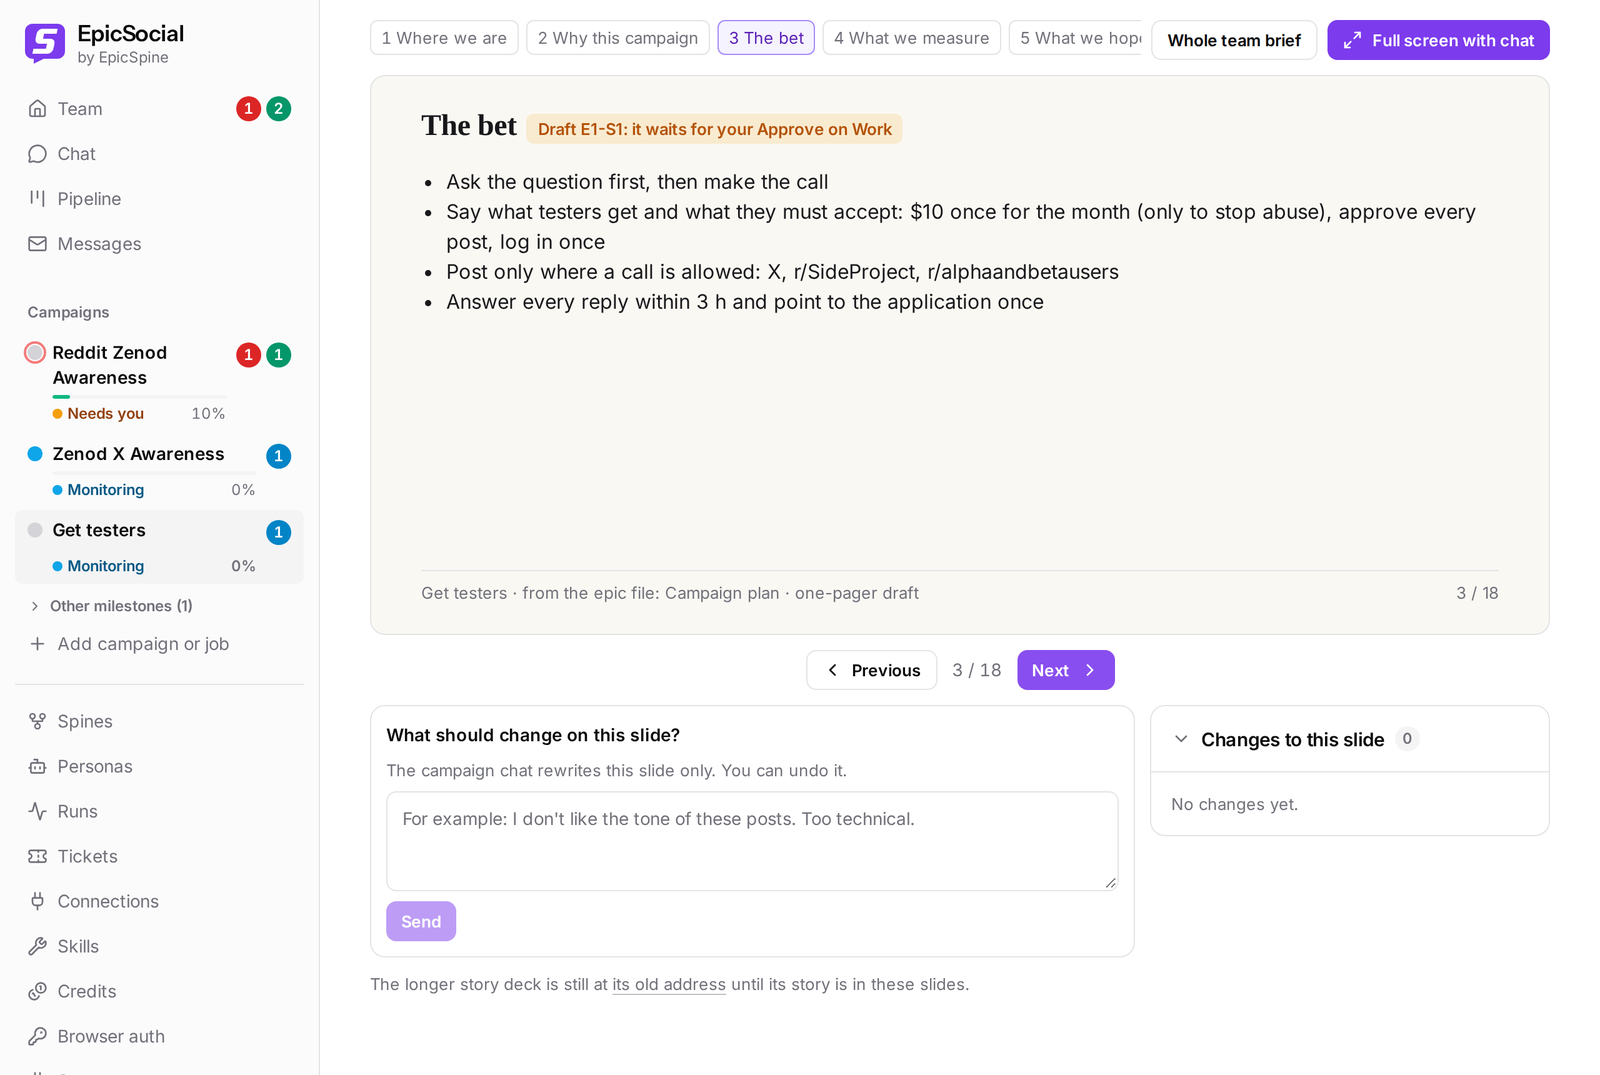
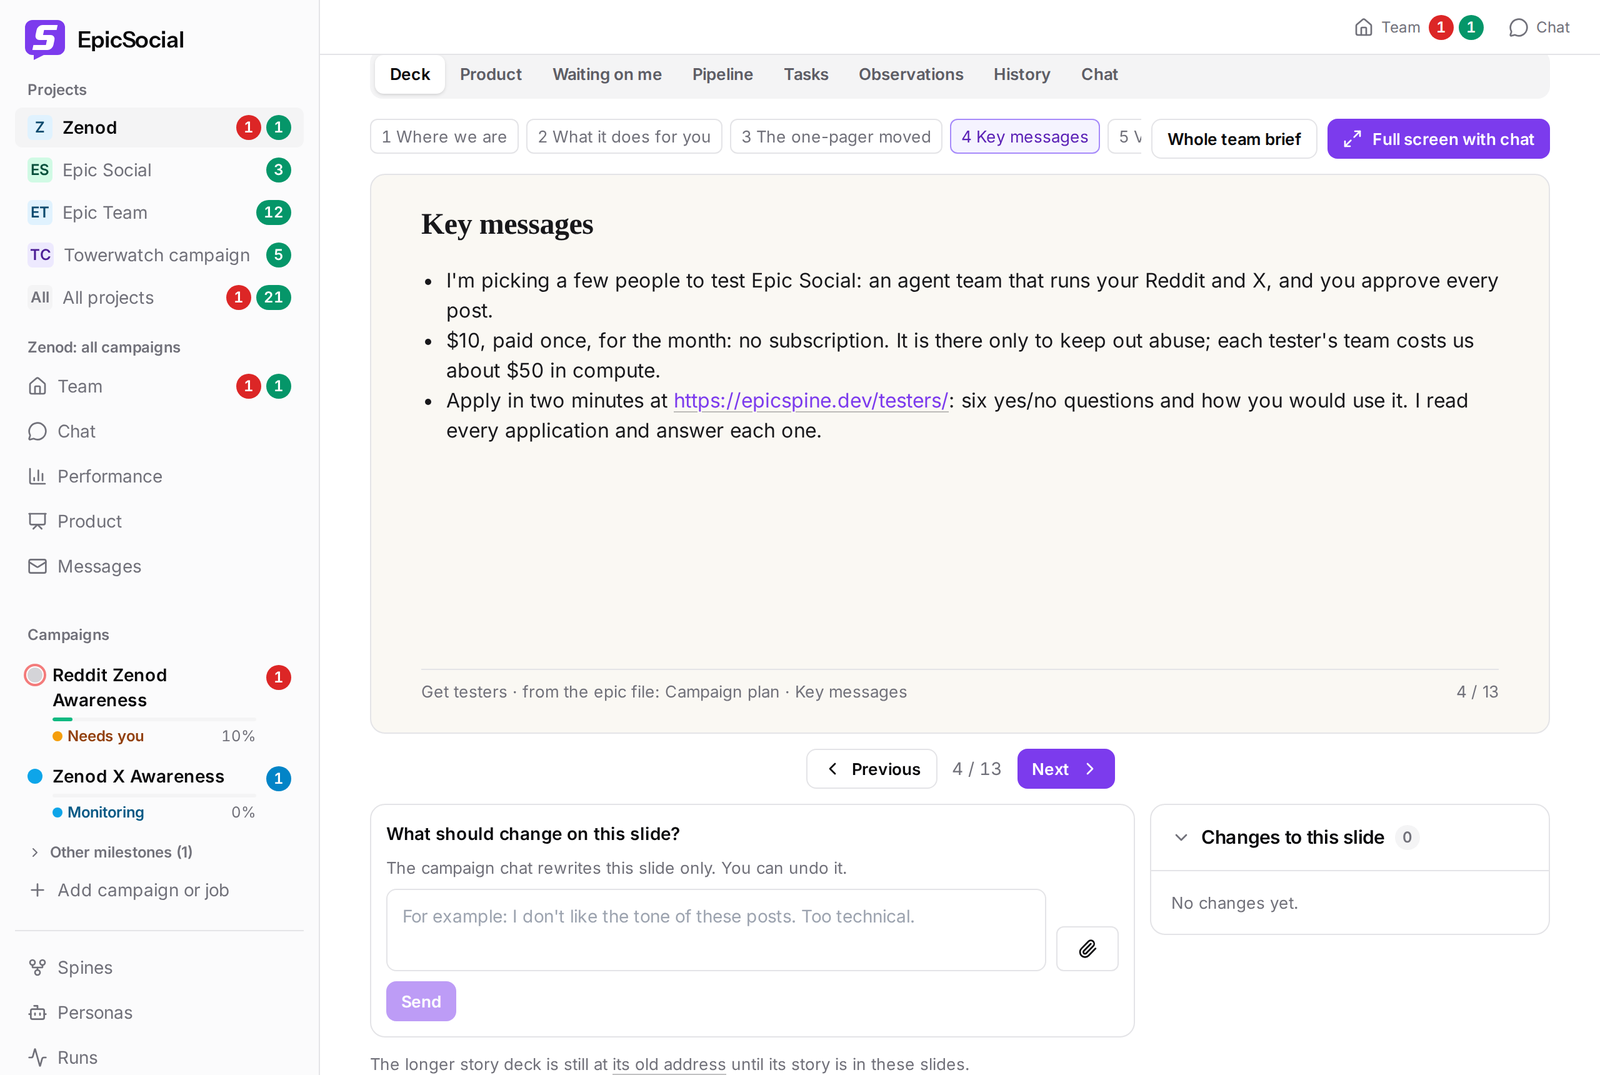
EpicSocial testers page: screens retaken without the "by EpicSpine" line (agent_team E65-S6)
Pipeline, brief deck, post page and drafts to approve retaken read-only on
production social.alpha9.io (console 7d250e9) at 1280x860 2x, resized to
1600x1075 as before. The brief's slide 3 (The bet) is gone from the deck,
so the shot shows slide 4, Key messages; alt texts follow. phone-drafts.png
never showed the line and is unchanged. For Jordi to merge.

diff --git a/testers/index.html b/testers/index.html
@@ -38,7 +38,7 @@
         </div>
       </div>
       <figure class="shot">
-        <img src="shots/pipeline.png" width="1600" height="1075" fetchpriority="high" alt="The EpicSocial Pipeline on 8 November 2026: four columns, Ideas, Drafts, Scheduled and Posted, each with its count; drafts wait for you, and the board switches to Rows, Week or Full width.">
+        <img src="shots/pipeline.png" width="1600" height="1075" fetchpriority="high" alt="The EpicSocial Pipeline on 9 November 2026: four columns, Ideas, Drafts, Scheduled and Posted, each with its count; drafts wait for you, and the board switches to Rows, Week or Full width.">
       </figure>
     </div>
   </section>
@@ -51,7 +51,7 @@
       </div>
       <div class="made">
         <figure class="shot lead-shot">
-          <img src="shots/brief-deck.png" width="1600" height="1075" loading="lazy" alt="A campaign's brief as a deck: slide 3, The bet, with a box to ask for a change to that slide.">
+          <img src="shots/brief-deck.png" width="1600" height="1075" loading="lazy" alt="A campaign's brief as a deck: slide 4, Key messages, with a box to ask for a change to that slide.">
           <figcaption>Every campaign starts from a short brief you own, one slide at a time.</figcaption>
         </figure>
         <ol>
